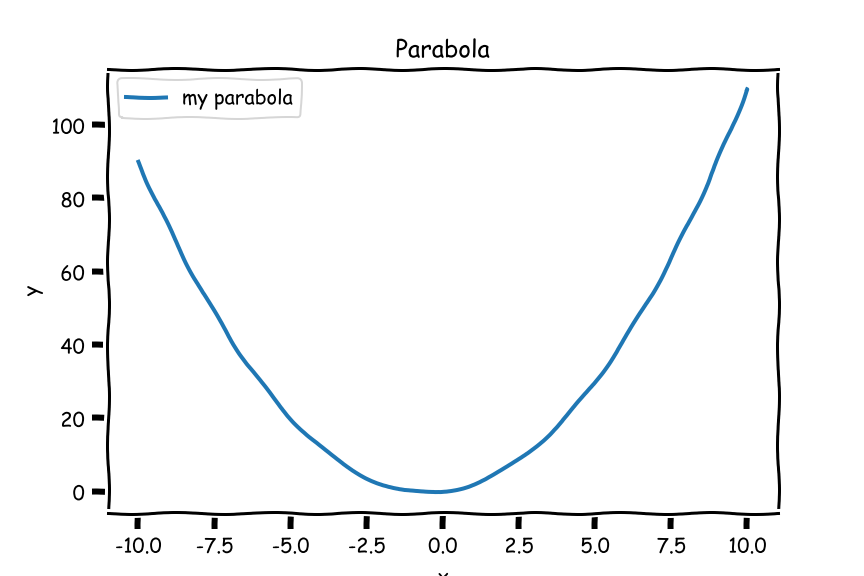
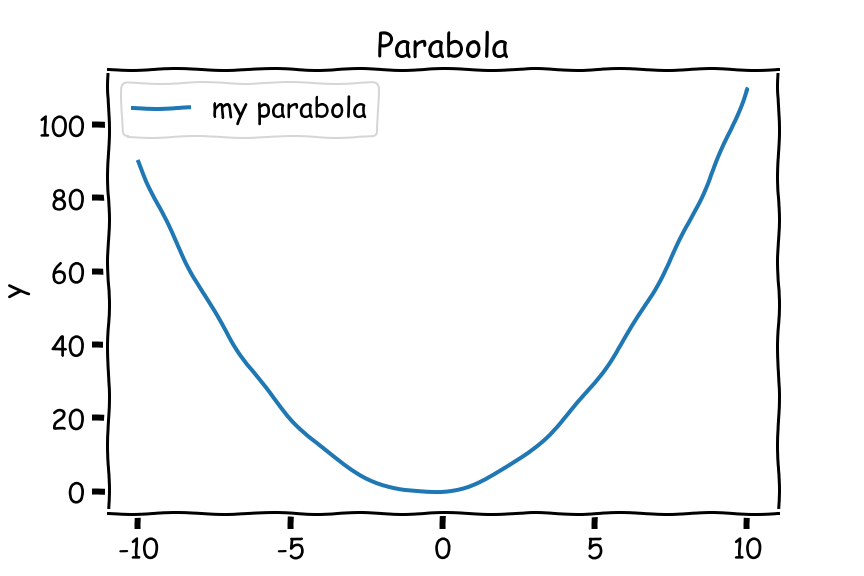
сделали 6 урок

diff --git a/lec_inplicit.py b/lec_inplicit.py
@@ -1,0 +1,22 @@
+import matplotlib.pyplot as plt
+import numpy as np
+
+def circle(radius=10):
+    
+    x = np.arange(-2 * radius, 2 * radius, 0.1)
+    y = np.arange(-2 * radius, 2 * radius, 0.1)
+    
+    X, Y = np.meshgrid(x, y)
+    
+    fxy = X ** 2 + Y ** 2 - radius ** 2
+    
+    plt.contour(X, Y, fxy, levels=np.linspace(0, 1000, 1000))  
+    plt.xlabel('x')
+    plt.ylabel('y')
+    plt.title('Circle')
+    plt.legend()
+    plt.axis('equal')
+    plt.savefig('fig_4.png')
+    
+if __name__ == '__main__':
+    circle()

diff --git a/lec_beautyplot.py b/lec_beautyplot.py
@@ -3,8 +3,6 @@ import matplotlib.pyplot as plt
 x = [3, 8, 5]
 y = [7, 4, 9]
 
-#plt.xkcd() #Сделать график корявым
-
 plt.plot(x, y, color='g', label='Graf 1', marker='>', ms=5)
 plt.plot(y, x, color='r', label='Graf 2', marker='o', ms=3)
 
@@ -14,4 +12,3 @@ plt.legend()
 plt.title('Base')
 plt.grid()
 plt.savefig('fig_2.png')
-plt.close()
